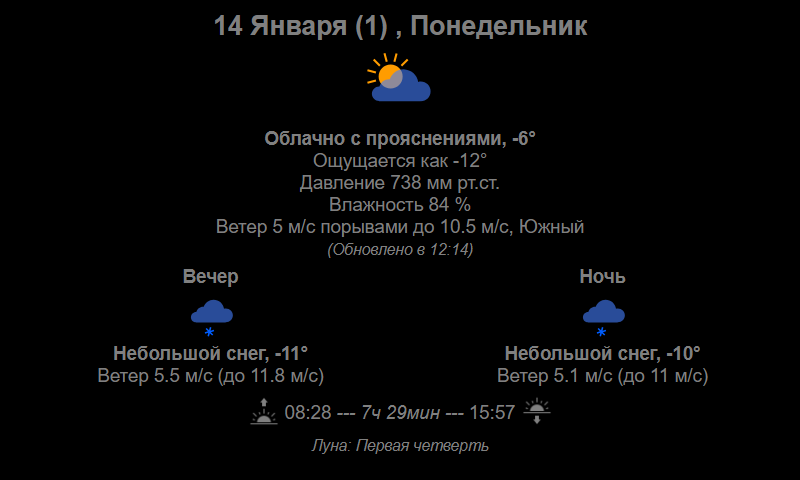
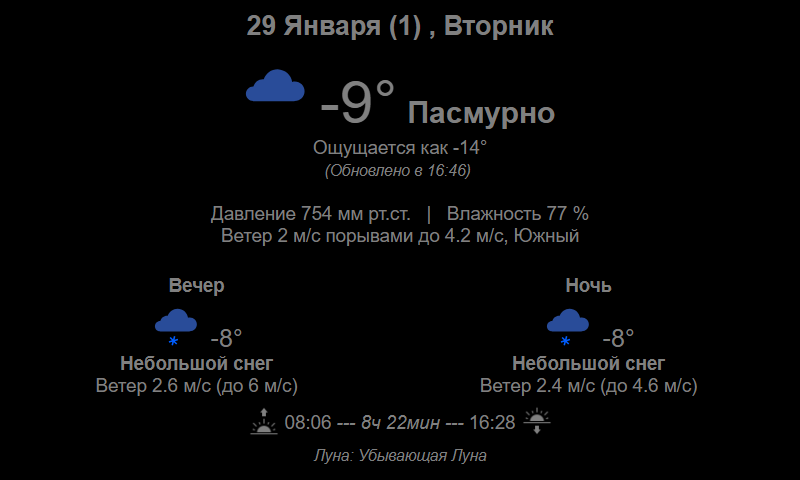
rework visual part

Changed region(s): [[0.25, 0.0312, 0.75, 0.5312], [0.0938, 0.5625, 0.9062, 0.9688], [0.3125, 0.125, 0.375, 0.2188]]

diff --git a/srs/html/page_template.html b/srs/html/page_template.html
@@ -112,11 +112,13 @@
                 <span style="font-weight: bold; font-size:30px">{{ WEATHER_CURRENT.condition }}</span>
                 <br>
                 Ощущается как {{ WEATHER_CURRENT.feels_like }}&deg<br>
-                Давление {{ WEATHER_CURRENT.pressure_mm }} мм рт.ст.<br>
-                Влажность {{ WEATHER_CURRENT.humidity }} %<br>
-                Ветер {{ WEATHER_CURRENT.wind_speed }} м/с порывами до {{ WEATHER_CURRENT.wind_gust }} м/с, {{ WEATHER_CURRENT.wind_dir }}<br>
                 <small><i>(Обновлено в {{ LAST_UPD.upd_time }})</i></small>
                 <br>
+                <br>
+                Давление {{ WEATHER_CURRENT.pressure_mm }} мм рт.ст.
+                &nbsp;&nbsp;|&nbsp;&nbsp;
+                Влажность {{ WEATHER_CURRENT.humidity }} %<br>
+                Ветер {{ WEATHER_CURRENT.wind_speed }} м/с порывами до {{ WEATHER_CURRENT.wind_gust }} м/с, {{ WEATHER_CURRENT.wind_dir }}<br>
                 <br>
             </td>
         </tr>
@@ -125,7 +127,7 @@
             <td>
                 <b>{{ PART.part_name }}</b><br>
                 <img style="width: 50px; height: 50px;" alt="weather_icon" src="{{ PART.icon }}">&nbsp;
-                <span style="font-size:25px;">{{ PART.feels_like }}&deg</span><br>
+                <span style="font-size:25px;">{{ PART.temp_avg }}&deg</span><br>
                 <b>{{ PART.condition }}</b><br>
                 <!--Ощущается как {{ PART.feels_like }}&deg<br>-->
                 <!--Давление {{ PART.pressure_mm }} мм рт.ст.<br>-->

diff --git a/weather.py b/weather.py
@@ -28,8 +28,15 @@ def read_config():
 CONFIG = read_config()
 
 
+def read_api_key():
+    key_file = "api_key.yml"
+    with open(key_file, "r") as filo:
+        config = yaml.load(filo)
+    return config["key"]
+
+
 def get_weather():
-    headers = {"X-Yandex-API-Key": CONFIG["yandex"]["key"]}
+    headers = {"X-Yandex-API-Key": read_api_key()}
     payload = {"lang": "en_US"}
     payload.update(CONFIG["yandex"]["coordinates"])
     # get data
